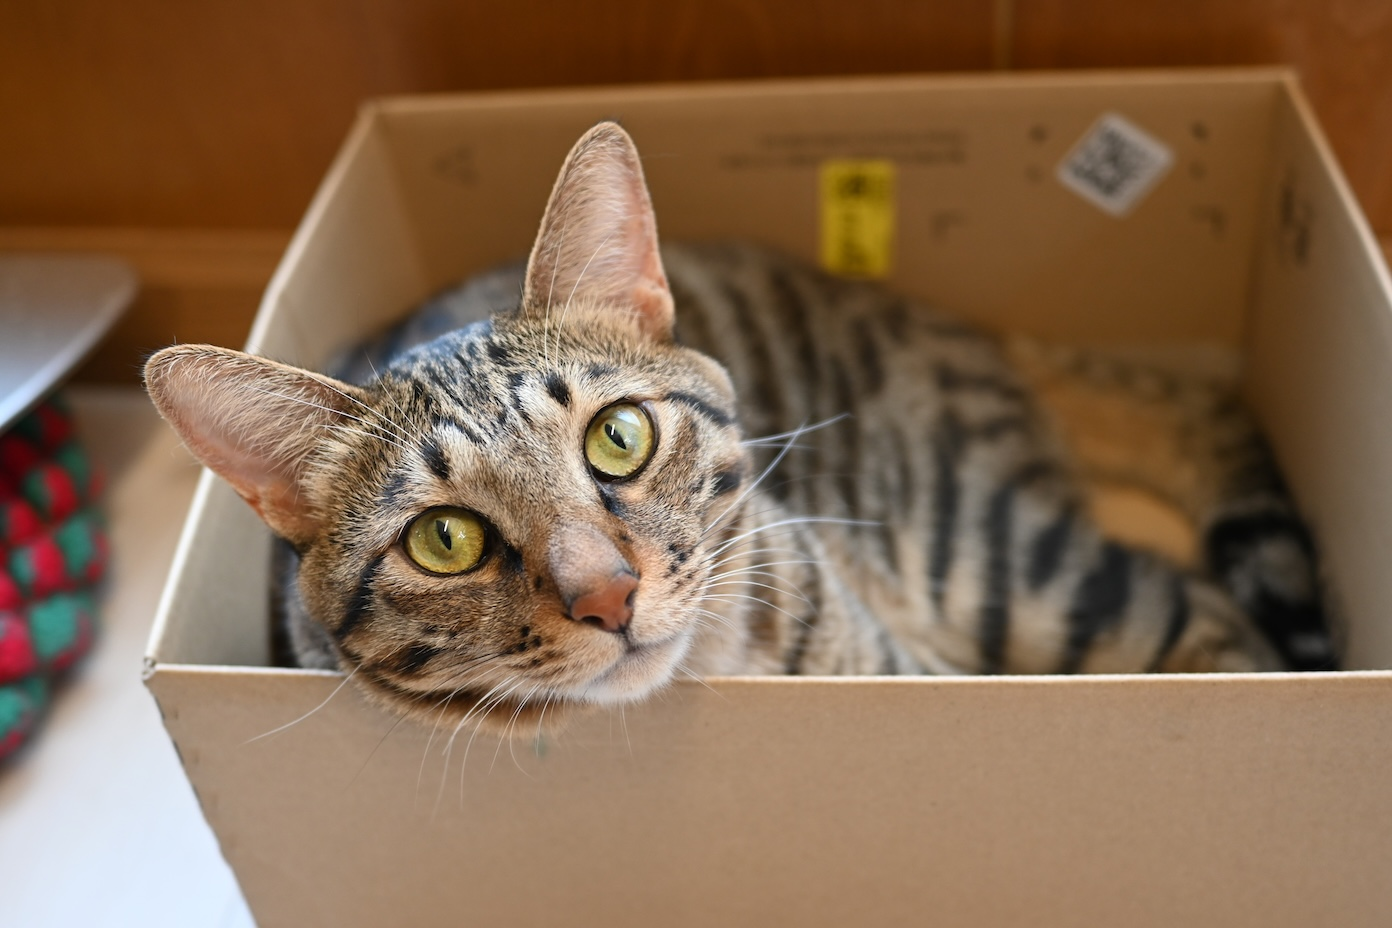
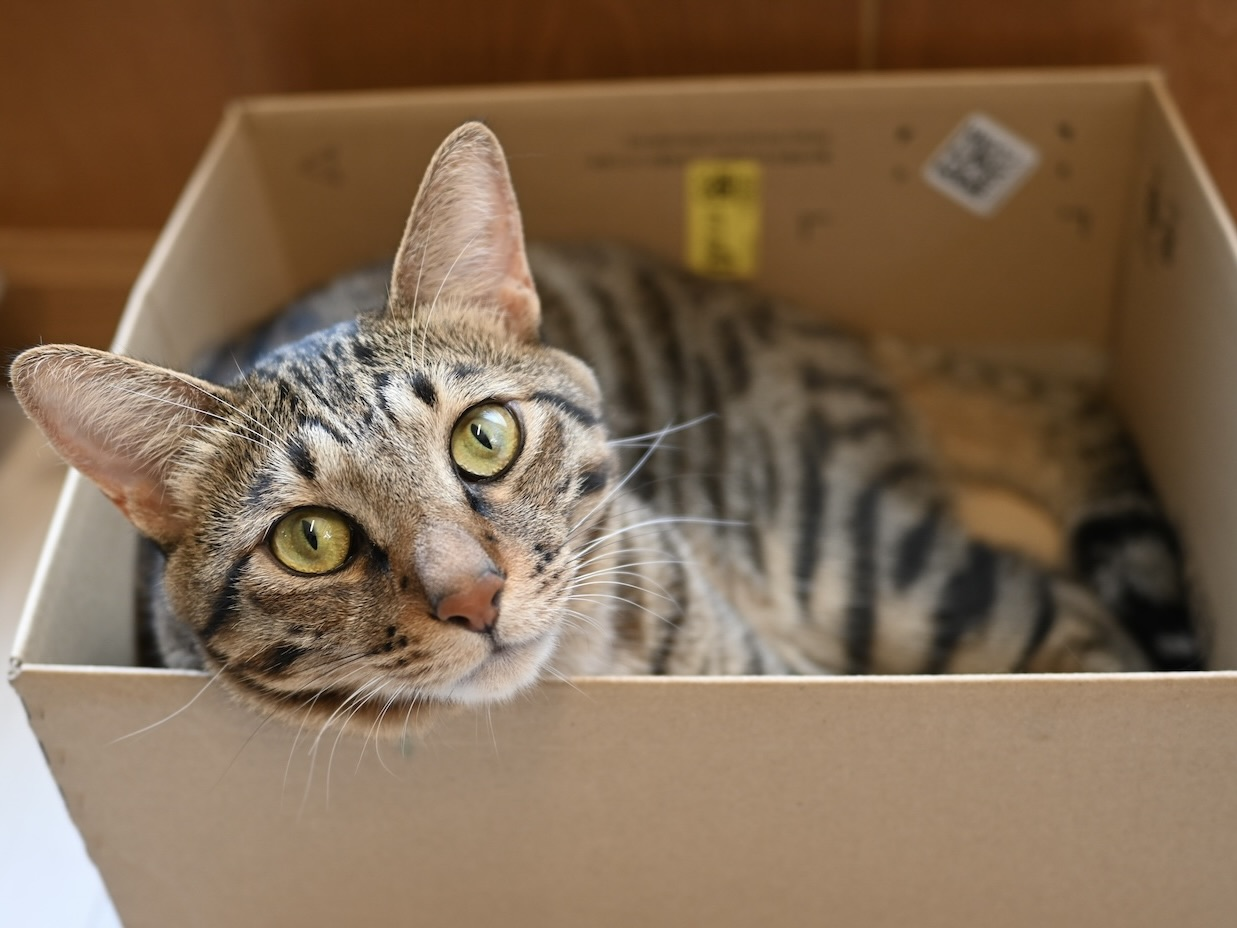
一旦完成

diff --git a/src/app.js b/src/app.js
@@ -1,11 +1,21 @@
 const app = document.querySelector('#app')
-const gridColumns = 4
-const gridRows = 3
-const pieceCount = gridColumns * gridRows
+const difficulties = {
+  easy: { label: 'かんたん', columns: 4, rows: 3 },
+  normal: { label: 'ふつう', columns: 6, rows: 4 },
+  hard: { label: 'むずかしい', columns: 8, rows: 6 },
+}
 let cats = []
 let selectedCat = null
+let selectedDifficulty = 'easy'
 let activeDrag = null
 let lastTouchedTimer = null
+
+// 選択中の難易度の設定と、そのときに使うピース数を返す
+const currentDifficulty = () => difficulties[selectedDifficulty]
+const currentPieceCount = () => {
+  const { columns, rows } = currentDifficulty()
+  return columns * rows
+}
 
 // 猫のデータから、画面に表示する画像のURLを作る
 const imageUrl = (cat) => `/public/images/cat-images/${cat.fileName}`
@@ -15,6 +25,7 @@ const shuffle = (items) => [...items].sort(() => Math.random() - 0.5)
 
 // 猫写真を選ぶ最初の画面を表示する
 const showStart = () => {
+  clearLastTouched()
   activeDrag = null
   selectedCat ||= cats[0]
   app.innerHTML = `
@@ -31,6 +42,16 @@ const showStart = () => {
         </label>
       `).join('')}
     </section>
+    <fieldset class="difficulty-list">
+      <legend>むずかしさを えらぼう</legend>
+      ${Object.entries(difficulties).map(([id, difficulty]) => `
+        <label class="difficulty-option ${id === selectedDifficulty ? 'is-selected' : ''}">
+          <input class="difficulty-radio" name="selected-difficulty" value="${id}" type="radio" ${id === selectedDifficulty ? 'checked' : ''}>
+          <span>${difficulty.label}</span>
+          <small>${difficulty.columns} × ${difficulty.rows}（${difficulty.columns * difficulty.rows}ピース）</small>
+        </label>
+      `).join('')}
+    </fieldset>
     <button class="primary-button" id="start-button" type="button">このねこで はじめる</button>
   `
   app.querySelectorAll('[name="selected-cat"]').forEach((radio) => {
@@ -39,43 +60,54 @@ const showStart = () => {
       showStart()
     })
   })
+  app.querySelectorAll('[name="selected-difficulty"]').forEach((radio) => {
+    radio.addEventListener('change', () => {
+      selectedDifficulty = radio.value
+      showStart()
+    })
+  })
   app.querySelector('#start-button').addEventListener('click', showGame)
 }
 
 // 指定した番号の写真部分を表示する、ドラッグ可能なピースを作る
 const createPiece = (pieceIndex) => {
-  const row = Math.floor(pieceIndex / gridColumns)
-  const column = pieceIndex % gridColumns
+  const { columns, rows } = currentDifficulty()
+  const row = Math.floor(pieceIndex / columns)
+  const column = pieceIndex % columns
   const piece = document.createElement('button')
   piece.type = 'button'
   piece.className = 'piece'
   piece.dataset.pieceIndex = String(pieceIndex)
   piece.setAttribute('aria-label', `パズルのピース ${pieceIndex + 1}`)
   piece.style.setProperty('--photo-url', `url("${imageUrl(selectedCat)}")`)
-  piece.style.setProperty('--background-position', `${(column / (gridColumns - 1)) * 100}% ${(row / (gridRows - 1)) * 100}%`)
-  piece.style.setProperty('--background-size', `${gridColumns * 100}% ${gridRows * 100}%`)
+  piece.style.setProperty('--background-position', `${(column / (columns - 1)) * 100}% ${(row / (rows - 1)) * 100}%`)
+  piece.style.setProperty('--background-size', `${columns * 100}% ${rows * 100}%`)
+  piece.style.setProperty('--piece-aspect', `${rows * 4} / ${columns * 3}`)
   piece.addEventListener('pointerdown', startDrag)
   return piece
 }
 
 // 選んだ猫写真を使い、盤面とピース置き場を表示する
 const showGame = () => {
+  clearLastTouched()
   activeDrag = null
+  const difficulty = currentDifficulty()
+  const pieceCount = currentPieceCount()
   app.innerHTML = `
     <div class="game-toolbar">
-      <h1>${selectedCat.title}のパズル</h1>
-      <button class="secondary-button" id="back-button" type="button">ねこをえらぶ</button>
+      <h1>${selectedCat.title}のパズル（${difficulty.label}）</h1>
+      <button class="secondary-button" id="back-button" type="button">ねこ・むずかしさをえらぶ</button>
     </div>
     <div class="game-layout">
       <section class="board-area">
         <h2>ここに おこう</h2>
         <p class="hint">ピースをドラッグして、おなじばしょに おこう！</p>
-        <div class="board" id="board" style="--photo-url: url('${imageUrl(selectedCat)}')"></div>
+        <div class="board" id="board" style="--photo-url: url('${imageUrl(selectedCat)}'); --grid-columns: ${difficulty.columns}; --grid-rows: ${difficulty.rows}"></div>
       </section>
       <section class="tray-area">
         <h2>ピース</h2>
         <p class="hint">すきなピースから はじめよう</p>
-        <div class="tray" id="tray" aria-label="パズルのピース置き場"></div>
+        <div class="tray ${pieceCount > 24 ? 'is-scrollable' : ''}" id="tray" style="--piece-aspect: ${difficulty.rows * 4} / ${difficulty.columns * 3}" aria-label="パズルのピース置き場"></div>
       </section>
     </div>
   `
@@ -113,11 +145,12 @@ const startDrag = (event) => {
   }
   movePreview(event)
   piece.addEventListener('pointermove', movePreview)
-  // ポインターを捕捉しているピースで終了イベントを受け取る。
-  // window のイベントより先に lostpointercapture が発生する環境でも、
-  // 置き場所の判定を終えてからドラッグ状態を消せるようにする。
-  piece.addEventListener('pointerup', finishDrag, { once: true })
-  piece.addEventListener('pointercancel', clearDrag, { once: true })
+  // キャプチャ段階で終了イベントを受け、素早く離した場合でも
+  // lostpointercapture より先に置き場所の判定を終える。
+  window.addEventListener('pointerup', finishDrag, true)
+  window.addEventListener('pointercancel', cancelDrag, true)
+  // OSによる操作中断などで pointerup が届かない場合も、プレビューを残さない。
+  piece.addEventListener('lostpointercapture', clearDrag, { once: true })
 }
 
 // 指やマウスの位置に合わせて、ドラッグ中のプレビューを移動する
@@ -144,7 +177,13 @@ const finishDrag = (event) => {
   target.append(piece)
   target.classList.add('is-filled')
   markLastTouched(piece)
-  if (app.querySelectorAll('.slot.is-filled').length === pieceCount) showComplete()
+  if (app.querySelectorAll('.slot.is-filled').length === currentPieceCount()) showComplete()
+}
+
+// 操作が中断されたときは、ドラッグ中のポインターだった場合だけ終了する
+const cancelDrag = (event) => {
+  if (!activeDrag || event.pointerId !== activeDrag.pointerId) return
+  clearDrag()
 }
 
 // 置けなかったピースを点滅させ、次に操作するピースを分かりやすくする
@@ -189,20 +228,24 @@ const findNearestSlot = (x, y) => {
 const clearDrag = () => {
   if (activeDrag) {
     activeDrag.piece.removeEventListener('pointermove', movePreview)
-    activeDrag.piece.removeEventListener('pointerup', finishDrag)
-    activeDrag.piece.removeEventListener('pointercancel', clearDrag)
+    activeDrag.piece.removeEventListener('lostpointercapture', clearDrag)
     activeDrag.piece.classList.remove('is-source')
   }
+  window.removeEventListener('pointerup', finishDrag, true)
+  window.removeEventListener('pointercancel', cancelDrag, true)
   document.querySelectorAll('.drag-preview').forEach((preview) => preview.remove())
   activeDrag = null
 }
 
 // すべてのピースが正しい場所に置かれたとき、完成画面を表示する
 const showComplete = () => {
+  clearLastTouched()
   activeDrag = null
+  const difficulty = currentDifficulty()
   app.innerHTML = `
     <section class="completion">
       <h1>かんせい！</h1>
+      <p>${difficulty.label}を クリアしたよ！</p>
       <img src="${imageUrl(selectedCat)}" alt="${selectedCat.altText}">
       <div class="completion-actions">
         <button class="primary-button" id="again-button" type="button">もう一度あそぶ</button>

diff --git a/src/style.css b/src/style.css
@@ -11,8 +11,16 @@ button { font: inherit; }
 .photo-card.is-selected { border-color: #f59e0b; }
 .photo-radio { position: absolute; opacity: 0; pointer-events: none; }
 .photo-card:has(.photo-radio:focus-visible) { outline: 4px solid #2563eb; outline-offset: 3px; }
-.photo-card img { display: block; width: 100%; aspect-ratio: 3 / 2; object-fit: cover; }
+.photo-card img { display: block; width: 100%; aspect-ratio: 4 / 3; object-fit: cover; }
 .photo-card span { display: block; padding: 10px; font-weight: 700; font-size: 20px; }
+.difficulty-list { display: flex; justify-content: center; flex-wrap: wrap; gap: 12px; max-width: 900px; margin: 0 auto 26px; padding: 0; border: 0; }
+.difficulty-list legend { width: 100%; margin-bottom: 2px; text-align: center; font-size: 20px; font-weight: 800; }
+.difficulty-option { display: grid; min-width: 150px; padding: 12px 16px; border: 4px solid #f2c28b; border-radius: 16px; background: white; text-align: center; cursor: pointer; }
+.difficulty-option.is-selected { border-color: #f59e0b; background: #fff5df; }
+.difficulty-option span { font-size: 21px; font-weight: 800; }
+.difficulty-option small { margin-top: 3px; font-size: 14px; font-weight: 700; }
+.difficulty-radio { position: absolute; opacity: 0; pointer-events: none; }
+.difficulty-option:has(.difficulty-radio:focus-visible) { outline: 4px solid #2563eb; outline-offset: 3px; }
 .primary-button, .secondary-button { display: block; min-height: 56px; padding: 12px 28px; border: 0; border-radius: 999px; font-weight: 800; font-size: 20px; cursor: pointer; }
 .primary-button { margin: 0 auto; background: #e76f38; color: white; box-shadow: 0 4px 0 #ad4721; }
 .secondary-button { background: #ffe5bc; color: #74401d; }
@@ -22,11 +30,12 @@ button { font: inherit; }
 .game-layout { display: grid; grid-template-columns: minmax(0, 3fr) minmax(260px, 2fr); gap: clamp(20px, 4vw, 52px); max-width: 1120px; margin: auto; }
 .board-area h2, .tray-area h2 { margin: 0 0 8px; font-size: 22px; }
 .hint { margin: 0 0 14px; font-size: 17px; font-weight: 700; }
-.board { display: grid; grid-template-columns: repeat(4, 1fr); grid-template-rows: repeat(3, 1fr); aspect-ratio: 3 / 2; overflow: hidden; border: 7px solid #8e5b3a; border-radius: 14px; background-image: linear-gradient(#ffffff9c, #ffffff9c), var(--photo-url); background-position: center; background-size: cover; box-shadow: 0 6px 18px #57331c2b; }
-.slot { border: 1px dashed #8e5b3a99; }
-.slot.is-filled { border-style: solid; border-color: #8e5b3a; }
+.board { display: grid; box-sizing: content-box; grid-template-columns: repeat(var(--grid-columns), 1fr); grid-template-rows: repeat(var(--grid-rows), 1fr); aspect-ratio: 4 / 3; overflow: hidden; border: 7px solid #8e5b3a; border-radius: 14px; background-image: linear-gradient(#ffffff9c, #ffffff9c), var(--photo-url); background-origin: content-box; background-position: center; background-size: 100% 100%; box-shadow: 0 6px 18px #57331c2b; }
+.slot { outline: 1px dashed #8e5b3a99; }
+.slot.is-filled { outline-style: solid; outline-color: #8e5b3a; }
 .tray { display: grid; grid-template-columns: repeat(4, 1fr); grid-auto-rows: min-content; align-content: start; align-items: start; gap: 9px; min-height: 180px; padding: 12px; border: 3px dashed #d69a65; border-radius: 16px; background: #fffdf9; }
-.piece { display: block; width: 100%; aspect-ratio: 9 / 8; align-self: start; border: 3px solid #fff; border-radius: 8px; background-image: var(--photo-url); background-position: var(--background-position); background-size: var(--background-size); box-shadow: 0 3px 8px #57331c3d; touch-action: none; cursor: grab; }
+.tray.is-scrollable { max-height: min(58vh, 540px); overflow-y: auto; overscroll-behavior: contain; }
+.piece { display: block; width: 100%; aspect-ratio: var(--piece-aspect, 9 / 8); align-self: start; border: 3px solid #fff; border-radius: 8px; background-image: var(--photo-url); background-position: var(--background-position); background-size: var(--background-size); box-shadow: 0 3px 8px #57331c3d; touch-action: none; cursor: grab; }
 .piece:active { cursor: grabbing; }
 .piece.is-last-touched { animation: last-touched-piece .8s ease-in-out infinite; }
 .slot .piece { height: 100%; aspect-ratio: auto; border: 0; border-radius: 0; box-shadow: none; cursor: default; }
@@ -34,7 +43,7 @@ button { font: inherit; }
 .drag-preview { position: fixed; z-index: 10; pointer-events: none; opacity: .9; transform: translate(-50%, -50%) rotate(3deg); }
 .completion { max-width: 620px; margin: 30px auto; text-align: center; }
 .completion h1 { color: #c55327; font-size: clamp(36px, 6vw, 56px); }
-.completion img { width: 100%; border: 8px solid white; border-radius: 18px; box-shadow: 0 6px 18px #57331c2b; }
+.completion img { display: block; width: 100%; aspect-ratio: 4 / 3; object-fit: cover; border: 8px solid white; border-radius: 18px; box-shadow: 0 6px 18px #57331c2b; }
 .completion-actions { display: flex; justify-content: center; flex-wrap: wrap; gap: 14px; margin-top: 24px; }
 .completion-actions .primary-button, .completion-actions .secondary-button { margin: 0; }
 .error { max-width: 600px; margin: 80px auto; text-align: center; }

diff --git a/docs/APP_SPECIFICATION.md b/docs/APP_SPECIFICATION.md
@@ -21,7 +21,9 @@
   ↓
 写真を選ぶ
   ↓
-パズル画面（3×3）
+むずかしさを選ぶ
+  ↓
+パズル画面（選択した難易度の分割数）
   ├─ ピースをドラッグして正しい場所へ置く
   ├─ 完成していなければ続ける
   └─ 完成したら完成画面へ
@@ -40,16 +42,17 @@
 - タイトル「ねこパズル」
 - 遊び方の短い説明
 - 選択できる猫写真の一覧
+- 難易度の選択肢（かんたん・ふつう・むずかしい）
 - 「この写真であそぶ」ボタン
 
-写真カードをタップすると選択状態になり、選んだ写真でゲームを開始する。
+写真カードと難易度をタップすると選択状態になり、選んだ内容でゲームを開始する。初期状態では「かんたん」を選択する。
 
 ### 4.2 パズル画面
 
 表示するもの：
 
 - 選択した写真のタイトル
-- 3×4のパズル盤面（横4列・縦3行）
+- 選択した難易度に応じたパズル盤面
 - 下部のピース置き場
 - 「ピースをドラッグして、おなじばしょにおこう」という案内
 - 「はじめから」ボタン
@@ -60,7 +63,7 @@
 2. 盤面の正しい場所まで動かす
 3. 指を離す
 4. 正しい場所ならピースが枠に収まり、違う場所ならピース置き場に戻る
-5. 12枚すべてが正しい場所に収まったら完成とする
+5. すべてのピースが正しい場所に収まったら完成とする
 
 ピース置き場ではピースの順番をランダムにするが、盤面上の写真をシャッフルしない。盤面には完成写真を薄く表示して、ピースを置く場所の目印にする。
 
@@ -79,17 +82,17 @@
 
 | 項目 | 内容 |
 | --- | --- |
-| マス数 | 3×4（横4列・縦3行） |
-| ピース数 | 12枚 |
+| 難易度 | かんたん・ふつう・むずかしい（初期値はかんたん） |
+| マス数・ピース数 | かんたん：4×3・12枚、ふつう：6×4・24枚、むずかしい：8×6・48枚 |
 | ピースの並び | ピース置き場でランダムに並べる。盤面の写真はシャッフルしない |
 | 操作 | ピースを指でドラッグし、盤面の正しい枠で離す |
 | 誤った場所に置いた時 | ピース置き場に戻す |
-| 完成判定 | 12枚すべてのピースが対応する枠に置かれた時 |
+| 完成判定 | 選択した難易度のすべてのピースが対応する枠に置かれた時 |
 | タイマー・得点 | 初期版ではなし |
 
 ### 写真の表示方法
 
-1枚の写真を12個のピースに分割して見せる。各ピースには同じ写真を背景として使用し、CSSの背景位置をずらして対応する部分だけを表示する。盤面には同じ写真を薄く表示し、正しい位置を分かりやすくする。
+1枚の写真を選択した難易度の数だけ分割して見せる。各ピースには同じ写真を背景として使用し、CSSの背景位置をずらして対応する部分だけを表示する。盤面には同じ写真を薄く表示し、正しい位置を分かりやすくする。むずかしいでは48枚のピースを縦スクロールできる置き場に表示する。
 
 この方式では、画像をあらかじめ9ファイルに分割する必要がない。
 
@@ -126,7 +129,7 @@ festival-cat-puzzle/
 public/images/cat-images/
 ```
 
-写真は横向きで、なるべく正方形に近い構図を推奨する。写真の中央付近に猫の顔や特徴があると、パズルにしたときに分かりやすい。
+写真は横向きで、4:3の構図を推奨する。写真の中央付近に猫の顔や特徴があると、パズルにしたときに分かりやすい。アプリ内の盤面とピースは4:3に固定して表示する。4:3素材は比率を変えずに表示され、異なる比率の素材は4:3に合わせて表示される。
 
 推奨形式：JPEG または WebP
 
@@ -179,8 +182,8 @@ JSONはJavaScriptで読み込むため、アプリは `file://` ではなく、H
 
 - [x] `index.html` からCSSとJavaScriptを読み込めるようにする
 - [x] JSONを読み込み、利用可能な写真のカードを表示する
-- [x] 選択した写真を薄く表示した3×4の盤面を生成する
-- [x] 写真を12個のドラッグ可能なピースとして生成する
+- [x] 選択した写真と難易度に応じた盤面を生成する
+- [x] 難易度に応じた数のドラッグ可能なピースとして生成する
 - [x] ピース置き場でピースをシャッフルする
 - [x] Pointer EventsでiPadのドラッグ操作を実装する
 - [x] 正しい場所へのドロップと、誤った場所からの戻しを実装する
@@ -190,4 +193,4 @@ JSONはJavaScriptで読み込むため、アプリは `file://` ではなく、H
 
 ## 10. 展示用の説明
 
-「写真の名前や順番は、JSONというデータファイルで管理しています。プログラムはそのデータを読み取り、写真を12個のピースに分け、指で動かしたピースが正しい場所かを確かめています。」
+「写真の名前や順番は、JSONというデータファイルで管理しています。プログラムはそのデータを読み取り、選んだ難易度に応じて写真をピースに分け、指で動かしたピースが正しい場所かを確かめています。」
